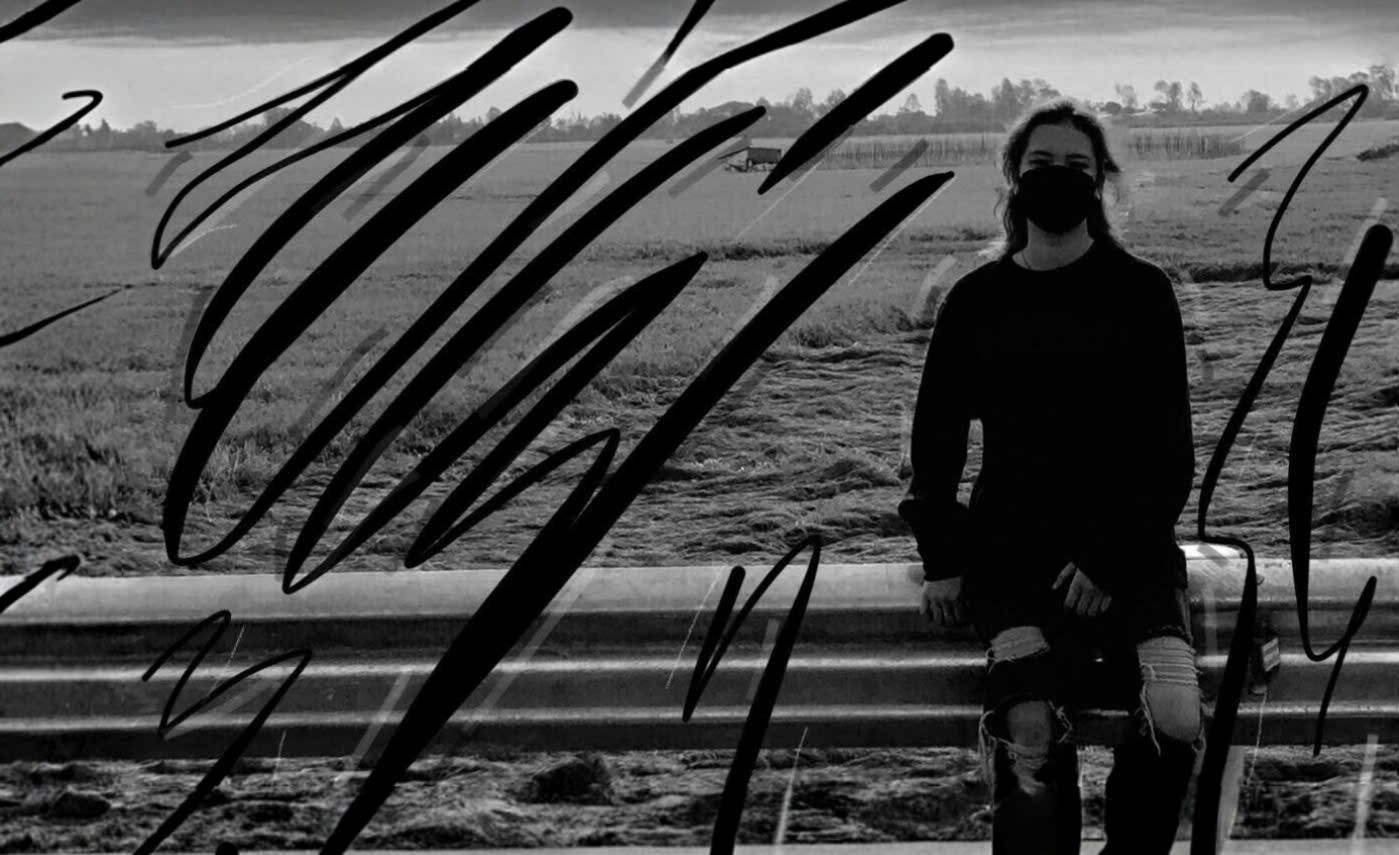
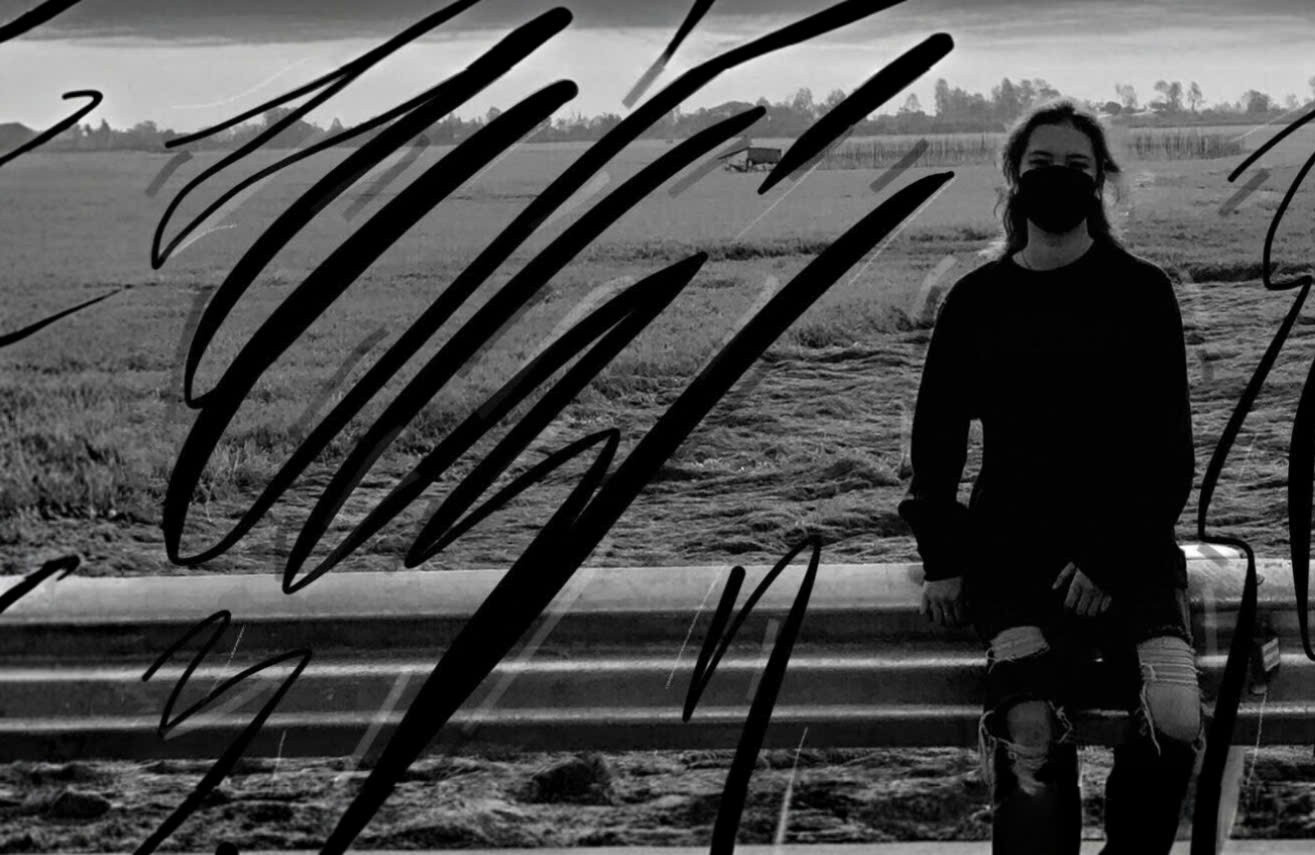
update

diff --git a/src/features/hero/HeroSection.jsx b/src/features/hero/HeroSection.jsx
@@ -131,7 +131,7 @@ export default function HeroSection({ onExploreClick }) {
         className="relative z-10 w-full max-w-7xl mx-auto px-4 sm:px-8 md:px-16 lg:px-20 pb-20 sm:pb-28 md:pb-32 flex flex-col items-start text-left space-y-3 sm:space-y-4 my-auto md:my-0"
       >
         {/* Mission Subtitle */}
-        <p className="text-[11px] sm:text-xs md:text-sm font-mono tracking-[0.2em] sm:tracking-[0.3em] uppercase text-main-400 font-semibold">
+        <p className="text-[11px] sm:text-xs md:text-sm font-mono tracking-[0.2em] sm:tracking-[0.3em] uppercase text-main-400 font-semibold mb-3">
           {roleText}
         </p>
 
